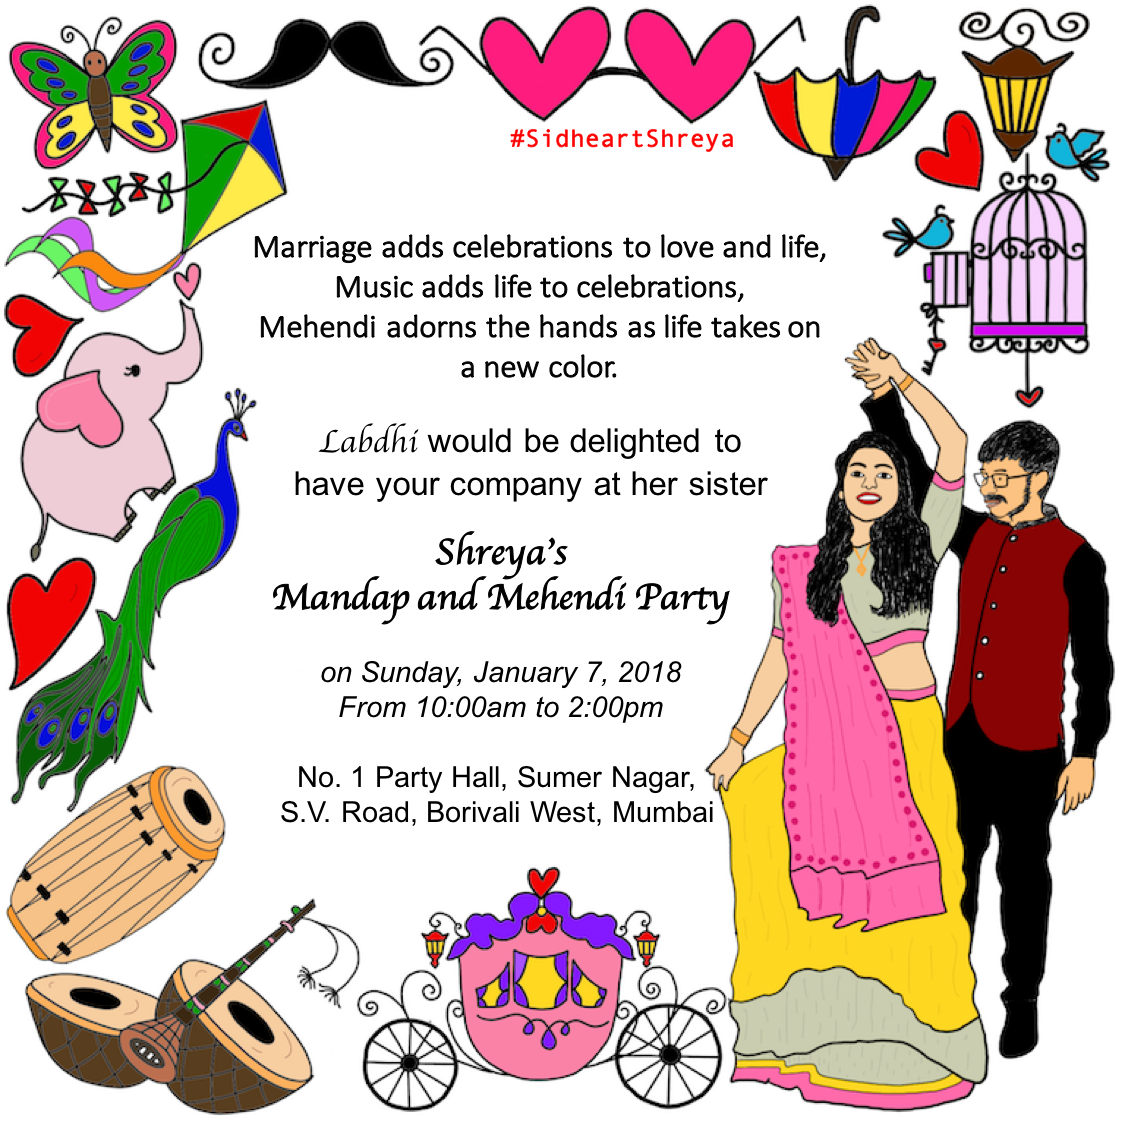
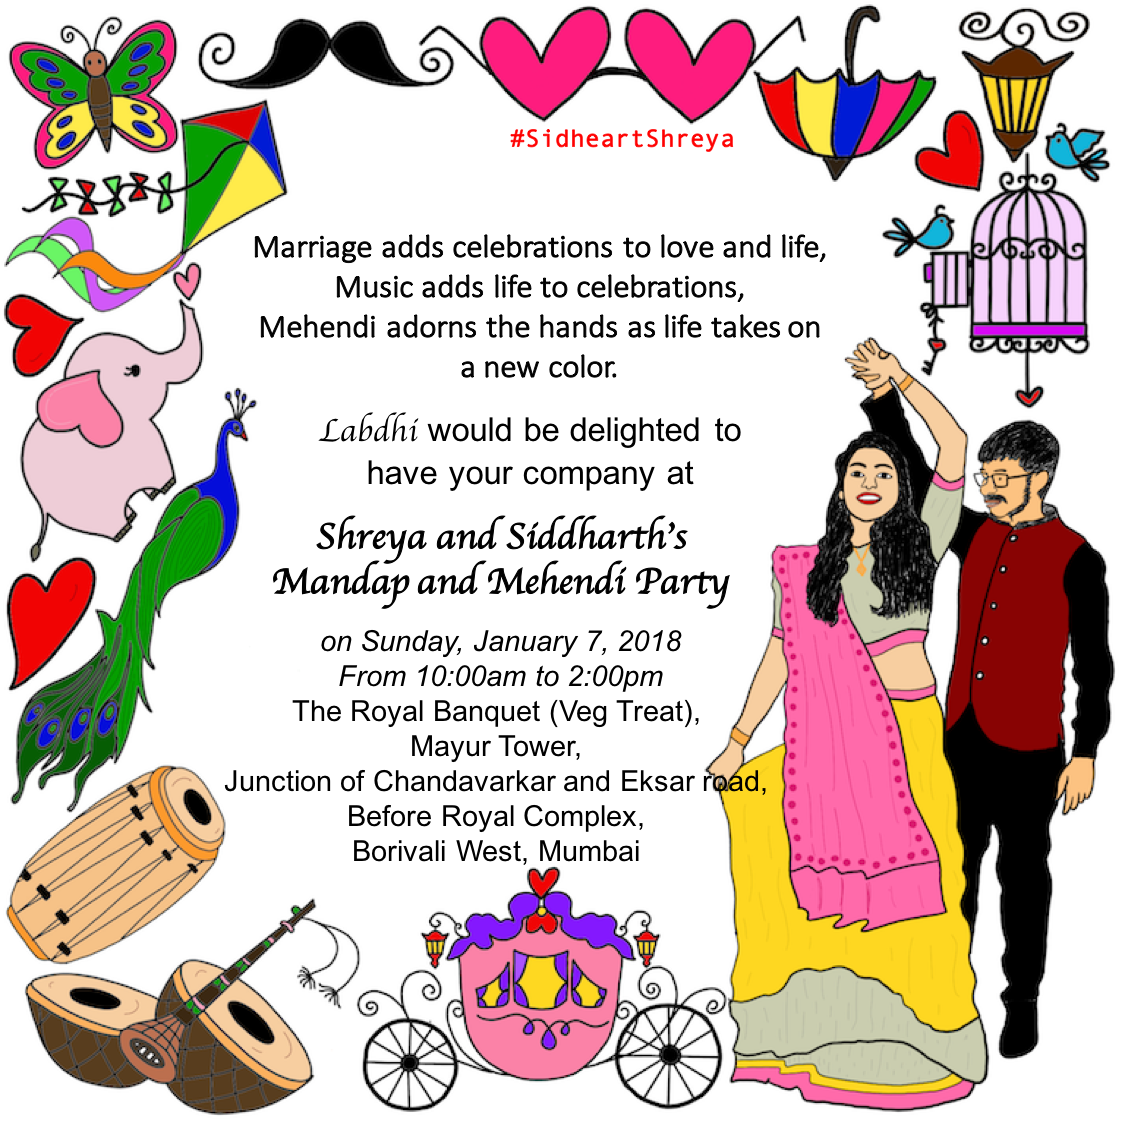
new invite

Changed region(s): [[0.1867, 0.3733, 0.6844, 0.7778]]

diff --git a/bigday/templates/partials/map.html b/bigday/templates/partials/map.html
@@ -8,13 +8,13 @@
                 <h3>Mehendi & Mandap</h3>
                 <p class="extra-margin">We would be delighted to have your company at our Mandap and Mehendi Party!</p>
                 <p><b>When: </b>Jan 7<sup>th</sup> 10:00am - 2:00pm</p>
-                <p><b>Where: </b>No 1 Party Hall, Borivali West</p>
+                <p><b>Where: </b>The Royal Banquet, Borivali West</p>
             </div>
         </div>
 
         <div class="col-md-6" style="padding: 40px">
             <iframe width="100%" height="250px" frameborder="0" style="border:0"
-            src="https://www.google.com/maps/embed/v1/place?q=No%201%20party%20hall%20borivali%20west&key=AIzaSyAI3BtVAeDWic6WvIlZmNaXGk6DNR2U3Zc"
+            src="https://www.google.com/maps/embed/v1/search?q=Royal%20Banquets%20Borivali&key=AIzaSyAI3BtVAeDWic6WvIlZmNaXGk6DNR2U3Zc"
             allowfullscreen></iframe>
         </div>
         {% endif %}
@@ -25,12 +25,12 @@
                 <h3>Mehendi & Mandap</h3>
                 <p class="extra-margin">We would be delighted to have your company at our Mandap and Mehendi Party!</p>
                 <p><b>When: </b>Jan 7<sup>th</sup> 10:00am - 2:00pm</p>
-                <p><b>Where: </b>Odeon Swimming Pool Hall, Ghatkopar East</p>
+                <p><b>Where: </b>The Royal Banquet, Borivali West</p>
             </div>
         </div>
         <div class="col-md-6" style="padding: 40px">
             <iframe width="100%" height="250px" frameborder="0" style="border:0"
-            src="https://www.google.com/maps/embed/v1/place?q=Odeon%20Swimming%20Pool%20Ghatkopar%20east&key=AIzaSyAI3BtVAeDWic6WvIlZmNaXGk6DNR2U3Zc"
+            src="https://www.google.com/maps/embed/v1/search?q=Royal%20Banquets%20Borivali&key=AIzaSyAI3BtVAeDWic6WvIlZmNaXGk6DNR2U3Zc"
             allowfullscreen></iframe>
         </div>
         {% endif %}
